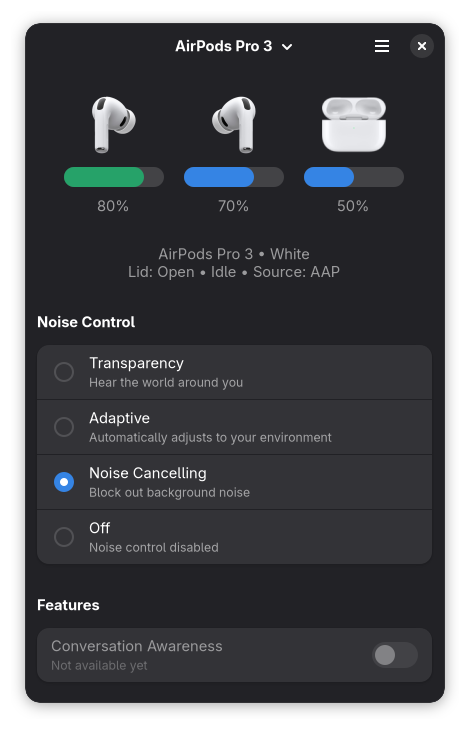
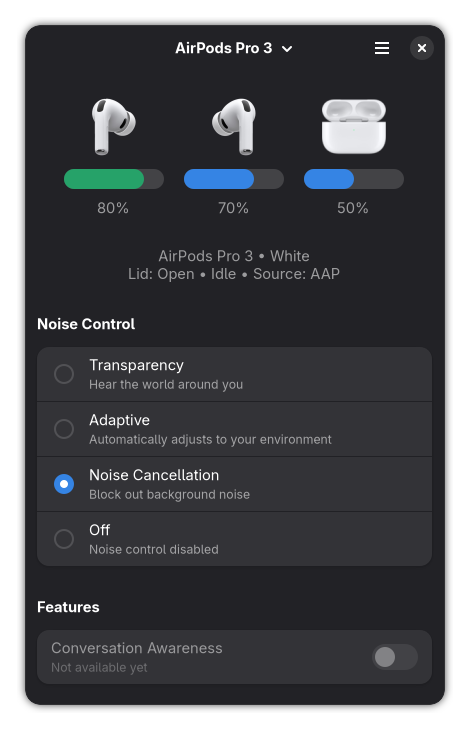
refactor: call the mode Noise Cancellation, as Apple does
The window, the tray and the docs called mode 0x02 Noise Cancelling,
where Apple says Noise Cancellation. The label, the NoiseMode variant,
the noise-mode action target and the radio's widget ID
(noise-noise-cancellation) follow, and the tests, the fake and the docs
with them. A rename only. The README's screenshot is retaken in a fake
world to show the new label.

diff --git a/src/aap/noise.rs b/src/aap/noise.rs
@@ -50,7 +50,7 @@ const CMD_SETTINGS_CHANGED: u8 = 0x4B;
 #[derive(Debug, Clone, Copy, PartialEq, Eq)]
 pub enum NoiseMode {
     Off,
-    NoiseCancelling,
+    NoiseCancellation,
     Transparency,
     Adaptive,
 }
@@ -61,7 +61,7 @@ impl NoiseMode {
     pub const ALL: [NoiseMode; 4] = [
         Self::Transparency,
         Self::Adaptive,
-        Self::NoiseCancelling,
+        Self::NoiseCancellation,
         Self::Off,
     ];
 
@@ -69,7 +69,7 @@ impl NoiseMode {
     pub fn from_byte(value: u8) -> Option<Self> {
         match value {
             0x01 => Some(Self::Off),
-            0x02 => Some(Self::NoiseCancelling),
+            0x02 => Some(Self::NoiseCancellation),
             0x03 => Some(Self::Transparency),
             0x04 => Some(Self::Adaptive),
             _ => None,
@@ -79,7 +79,7 @@ impl NoiseMode {
     pub fn as_byte(self) -> u8 {
         match self {
             Self::Off => 0x01,
-            Self::NoiseCancelling => 0x02,
+            Self::NoiseCancellation => 0x02,
             Self::Transparency => 0x03,
             Self::Adaptive => 0x04,
         }
@@ -88,7 +88,7 @@ impl NoiseMode {
     pub fn label(self) -> &'static str {
         match self {
             Self::Off => "Off",
-            Self::NoiseCancelling => "Noise Cancelling",
+            Self::NoiseCancellation => "Noise Cancellation",
             Self::Transparency => "Transparency",
             Self::Adaptive => "Adaptive",
         }
@@ -98,7 +98,7 @@ impl NoiseMode {
     pub fn description(self) -> &'static str {
         match self {
             Self::Off => "Noise control disabled",
-            Self::NoiseCancelling => "Block out background noise",
+            Self::NoiseCancellation => "Block out background noise",
             Self::Transparency => "Hear the world around you",
             Self::Adaptive => "Automatically adjusts to your environment",
         }
@@ -122,7 +122,7 @@ pub const STALE_REPORT_WINDOW: Duration = Duration::from_secs(2);
 /// A command's mode is taken at once: the device's answer cannot confirm it -
 /// see the module docs. Its reports are taken as they come, the startup dump
 /// and a mode changed from a phone among them, with one exception. After Off
-/// was set from Noise Cancelling, a pair reported Noise Cancelling 0.33 s
+/// was set from Noise Cancellation, a pair reported Noise Cancellation 0.33 s
 /// later and Off only at 1.4 s, and taken as it came, that report put the
 /// previous mode back on show for a second (#113). So a report of the mode a
 /// command replaced is held off until the mode set is reported, or
@@ -340,7 +340,7 @@ mod tests {
         let hex = |mode| crate::hex(&set_packet(mode));
         assert_eq!(hex(NoiseMode::Off), "04 00 04 00 09 00 0d 01 00 00 00");
         assert_eq!(
-            hex(NoiseMode::NoiseCancelling),
+            hex(NoiseMode::NoiseCancellation),
             "04 00 04 00 09 00 0d 02 00 00 00"
         );
         assert_eq!(
@@ -488,17 +488,17 @@ mod tests {
         Duration::from_millis(ms)
     }
 
-    /// The #71 capture: Off from Noise Cancelling, the old mode reported at
+    /// The #71 capture: Off from Noise Cancellation, the old mode reported at
     /// +0.33 s and Off at +1.4 s. Off stays on show throughout, and from the
     /// report of Off on, any report counts.
     #[test]
     fn a_report_of_the_replaced_mode_is_held_until_the_mode_set_is_reported() {
         let start = Instant::now();
-        let mut state = reported(NoiseMode::NoiseCancelling, start);
+        let mut state = reported(NoiseMode::NoiseCancellation, start);
         let sent = start + ms(1000);
         assert!(state.set(NoiseMode::Off, sent));
         assert_eq!(
-            state.report(NoiseMode::NoiseCancelling, sent + ms(330)),
+            state.report(NoiseMode::NoiseCancellation, sent + ms(330)),
             Report::Stale
         );
         assert_eq!(state.mode(), Some(NoiseMode::Off));
@@ -509,10 +509,10 @@ mod tests {
 
         // Changed from a phone, straight after.
         assert_eq!(
-            state.report(NoiseMode::NoiseCancelling, sent + ms(1500)),
+            state.report(NoiseMode::NoiseCancellation, sent + ms(1500)),
             Report::Changed
         );
-        assert_eq!(state.mode(), Some(NoiseMode::NoiseCancelling));
+        assert_eq!(state.mode(), Some(NoiseMode::NoiseCancellation));
     }
 
     /// With no report of the mode set, the hold lasts the window and no
@@ -536,14 +536,14 @@ mod tests {
     #[test]
     fn another_mode_is_taken_at_once_and_ends_the_hold() {
         let start = Instant::now();
-        let mut state = reported(NoiseMode::NoiseCancelling, start);
+        let mut state = reported(NoiseMode::NoiseCancellation, start);
         state.set(NoiseMode::Off, start);
         assert_eq!(
             state.report(NoiseMode::Transparency, start + ms(100)),
             Report::Changed
         );
         assert_eq!(
-            state.report(NoiseMode::NoiseCancelling, start + ms(200)),
+            state.report(NoiseMode::NoiseCancellation, start + ms(200)),
             Report::Changed
         );
     }
@@ -553,18 +553,18 @@ mod tests {
     #[test]
     fn the_hold_follows_the_last_command() {
         let start = Instant::now();
-        let mut state = reported(NoiseMode::NoiseCancelling, start);
+        let mut state = reported(NoiseMode::NoiseCancellation, start);
         state.set(NoiseMode::Off, start);
         assert!(!state.set(NoiseMode::Off, start + ms(1500)));
         assert_eq!(
-            state.report(NoiseMode::NoiseCancelling, start + STALE_REPORT_WINDOW),
+            state.report(NoiseMode::NoiseCancellation, start + STALE_REPORT_WINDOW),
             Report::Changed,
             "held from the first Off"
         );
 
         state.set(NoiseMode::Transparency, start + ms(3000));
         assert_eq!(
-            state.report(NoiseMode::NoiseCancelling, start + ms(3100)),
+            state.report(NoiseMode::NoiseCancellation, start + ms(3100)),
             Report::Stale
         );
         state.set(NoiseMode::Adaptive, start + ms(3200));

diff --git a/tests/pipeline.rs b/tests/pipeline.rs
@@ -756,7 +756,7 @@ async fn off_is_allowed_first_and_no_other_mode_is() {
     app.until("the mode from the startup dump", |s| {
         s.states
             .get(&PAIR)
-            .is_some_and(|state| state.noise_mode == Some(NoiseMode::NoiseCancelling))
+            .is_some_and(|state| state.noise_mode == Some(NoiseMode::NoiseCancellation))
     })
     .await;
 
@@ -764,7 +764,7 @@ async fn off_is_allowed_first_and_no_other_mode_is() {
         NoiseMode::Transparency,
         NoiseMode::Adaptive,
         NoiseMode::Off,
-        NoiseMode::NoiseCancelling,
+        NoiseMode::NoiseCancellation,
     ];
     for mode in modes {
         app.coordinator
@@ -794,22 +794,22 @@ async fn off_is_allowed_first_and_no_other_mode_is() {
         set_packet(NoiseMode::Adaptive),
         allow_off_packet(true),
         set_packet(NoiseMode::Off),
-        set_packet(NoiseMode::NoiseCancelling),
+        set_packet(NoiseMode::NoiseCancellation),
     ]
     .map(|packet| packet.to_vec());
     assert_eq!(settings, expected);
 }
 
 /// After Off, a report of the mode it replaced does not bring that mode back:
-/// in the #71 capture the pair reported Noise Cancelling 0.33 s after Off
+/// in the #71 capture the pair reported Noise Cancellation 0.33 s after Off
 /// was set from it, and Off itself only at 1.4 s, and the window showed Noise
-/// Cancelling for the second in between (#113). The fake pair does the same.
+/// Cancellation for the second in between (#113). The fake pair does the same.
 ///
 /// Every snapshot from the command on is watched, until a battery change made
 /// once the echo is out has arrived: it comes over the same connection, after
 /// the stale report and the echo, so by then both have been read. The stale
 /// report comes well inside the 2 s the app holds it off for, and the pair
-/// reports Noise Cancelling for a whole second before the echo: a snapshot
+/// reports Noise Cancellation for a whole second before the echo: a snapshot
 /// showing it would be seen.
 #[tokio::test(flavor = "multi_thread", worker_threads = 2)]
 async fn a_stale_report_after_off_does_not_bring_the_old_mode_back() {
@@ -822,7 +822,7 @@ async fn a_stale_report_after_off_does_not_bring_the_old_mode_back() {
     app.until("the mode from the startup dump", |s| {
         s.states
             .get(&PAIR)
-            .is_some_and(|state| state.noise_mode == Some(NoiseMode::NoiseCancelling))
+            .is_some_and(|state| state.noise_mode == Some(NoiseMode::NoiseCancellation))
     })
     .await;
     fixture
@@ -888,7 +888,7 @@ async fn a_stale_report_after_off_does_not_bring_the_old_mode_back() {
         .unwrap();
     assert_eq!(
         shown,
-        [Some(NoiseMode::NoiseCancelling), Some(NoiseMode::Off)],
+        [Some(NoiseMode::NoiseCancellation), Some(NoiseMode::Off)],
         "Off, and nothing after it"
     );
 }
@@ -932,7 +932,7 @@ async fn two_quick_switches(spawned: bool) {
     app.until("the mode from the startup dump", |s| {
         s.states
             .get(&PAIR)
-            .is_some_and(|state| state.noise_mode == Some(NoiseMode::NoiseCancelling))
+            .is_some_and(|state| state.noise_mode == Some(NoiseMode::NoiseCancellation))
     })
     .await;
 

diff --git a/src/harness/pods.rs b/src/harness/pods.rs
@@ -148,7 +148,7 @@ pub struct Quirks {
     pub echo_delay: Duration,
     /// Report the mode an Off replaced, this long after the change - before
     /// the echo, when one comes sooner than that. In the #71 capture, switched
-    /// from Noise Cancelling to Off, the pair reported `0D 02` 0.33 s later and
+    /// from Noise Cancellation to Off, the pair reported `0D 02` 0.33 s later and
     /// the Off itself, `0D 01`, at 1.4 s; the other three modes came with no
     /// such report. Seen once, so `None` by default. It brings no echo of its
     /// own: [`Quirks::echo_every`] and [`Quirks::echo_delay`] say when that
@@ -286,7 +286,7 @@ impl Pods {
     /// It starts as if just taken out of the box: both pods in the open case,
     /// left at 80%, right at 70% and the case at 50% - different, so a
     /// left/right mix-up shows - nothing charging, white, left primary, noise
-    /// cancelling, Off not allowed, and connected to nothing.
+    /// cancellation, Off not allowed, and connected to nothing.
     pub fn new(product_id: u16, mac: Address) -> Self {
         Self::with_keys(product_id, mac, Keys::generate())
     }
@@ -309,7 +309,7 @@ impl Pods {
             case_charging: false,
             lid_open: true,
             primary: PodSide::Left,
-            noise_mode: NoiseMode::NoiseCancelling,
+            noise_mode: NoiseMode::NoiseCancellation,
             allow_off: false,
             keys,
             connected: false,
@@ -1069,7 +1069,7 @@ mod tests {
         let mut pods = subscribed();
         pods.receive(&noise::set_packet(NoiseMode::Off), ms(10));
         assert!(pods.poll(ms(10)).is_empty());
-        assert_eq!(pods.noise_mode(), NoiseMode::NoiseCancelling);
+        assert_eq!(pods.noise_mode(), NoiseMode::NoiseCancellation);
 
         pods.receive(&noise::allow_off_packet(true), ms(20));
         pods.receive(&noise::set_packet(NoiseMode::Off), ms(20));
@@ -1098,7 +1098,7 @@ mod tests {
         let modes = [
             NoiseMode::Transparency,
             NoiseMode::Adaptive,
-            NoiseMode::NoiseCancelling,
+            NoiseMode::NoiseCancellation,
             NoiseMode::Transparency,
         ];
         for (i, mode) in modes.into_iter().enumerate() {
@@ -1125,8 +1125,8 @@ mod tests {
         }
     }
 
-    /// Off from Noise Cancelling as the #71 capture has it - a report of
-    /// Noise Cancelling at +0.33 s and the echo of Off at +1.4 s - with the
+    /// Off from Noise Cancellation as the #71 capture has it - a report of
+    /// Noise Cancellation at +0.33 s and the echo of Off at +1.4 s - with the
     /// fake's default 0x4B at once on top. No other mode brings such a
     /// report, nor does Off from Off.
     #[test]
@@ -1144,7 +1144,7 @@ mod tests {
         assert_eq!(pods.next_due(), Some(ms(1330)));
         assert_eq!(
             sent(&pods.poll(ms(1330))),
-            [noise::set_packet(NoiseMode::NoiseCancelling).to_vec()]
+            [noise::set_packet(NoiseMode::NoiseCancellation).to_vec()]
         );
         assert_eq!(pods.noise_mode(), NoiseMode::Off, "the report is stale");
         assert_eq!(

diff --git a/src/podstate.rs b/src/podstate.rs
@@ -1908,7 +1908,7 @@ mod tests {
     /// where `set_noise_control` records it, since sending needs a socket.
     #[tokio::test]
     async fn a_stale_report_does_not_undo_a_command() {
-        use aap::NoiseMode::{NoiseCancelling, Off};
+        use aap::NoiseMode::{NoiseCancellation, Off};
 
         let mut inner = inner_with(vec![]);
         inner.links.insert(AA, link(Some(aap_state(80))));
@@ -1917,7 +1917,7 @@ mod tests {
         let mode =
             |coordinator: &Coordinator| coordinator.subscribe().borrow().states[&AA].noise_mode;
         coordinator
-            .handle_noise_mode(NoiseCancelling, AA, &client)
+            .handle_noise_mode(NoiseCancellation, AA, &client)
             .await;
         {
             let mut inner = coordinator.inner.write().await;
@@ -1928,16 +1928,16 @@ mod tests {
         let _ = rx.borrow_and_update();
 
         coordinator
-            .handle_noise_mode(NoiseCancelling, AA, &client)
+            .handle_noise_mode(NoiseCancellation, AA, &client)
             .await;
         assert_eq!(mode(&coordinator), Some(Off));
         assert!(!rx.has_changed().unwrap(), "nothing to broadcast");
 
         coordinator.handle_noise_mode(Off, AA, &client).await;
         coordinator
-            .handle_noise_mode(NoiseCancelling, AA, &client)
+            .handle_noise_mode(NoiseCancellation, AA, &client)
             .await;
-        assert_eq!(mode(&coordinator), Some(NoiseCancelling));
+        assert_eq!(mode(&coordinator), Some(NoiseCancellation));
     }
 
     /// A read loop outliving its link reports the old session's mode, which

diff --git a/src/ui/automation.rs b/src/ui/automation.rs
@@ -64,7 +64,7 @@
 //! | `status` | the status text under the battery display: model and color, then the rest |
 //! | `last-seen` | how old a BLE reading is; hidden for AAP |
 //! | `noise-control` | the Noise Control group, insensitive unless the device is on AAP |
-//! | `noise-off`, `noise-noise-cancelling`, `noise-transparency`, `noise-adaptive` | its radios |
+//! | `noise-off`, `noise-noise-cancellation`, `noise-transparency`, `noise-adaptive` | its radios |
 //! | `conversation-awareness` | the Features switch, always insensitive |
 //! | `preferences` | the Preferences dialog, while open |
 //! | `auto-connect`, `battery-notifications` | its switches, always insensitive |

diff --git a/src/ui/control.rs b/src/ui/control.rs
@@ -322,7 +322,7 @@ fn create_empty_state() -> adw::StatusPage {
 fn noise_target(mode: NoiseMode) -> &'static str {
     match mode {
         NoiseMode::Off => "off",
-        NoiseMode::NoiseCancelling => "noise-cancelling",
+        NoiseMode::NoiseCancellation => "noise-cancellation",
         NoiseMode::Transparency => "transparency",
         NoiseMode::Adaptive => "adaptive",
     }

diff --git a/docs/aap-noise-control.md b/docs/aap-noise-control.md
@@ -97,13 +97,13 @@ What answers a mode change depends on the model, and nothing answers it reliably
 | Mode | Sent | `0x0D` echo | `0x4B` |
 |---|---|---|---|
 | Adaptive | `0D 04` | +1.1 s | none |
-| Noise Cancelling | `0D 02` | +1.0 s | none |
+| Noise Cancellation | `0D 02` | +1.0 s | none |
 | Off | `34 01` then `0D 01`, same ms | stale `0D 02` at +0.33 s, then `0D 01` at +1.4 s | none |
 | Transparency | `0D 03` | +1.0 s | none |
 
 **Integration note:** Treat noise control commands as fire-and-forget. Update local state optimistically after sending — do not wait for a `0x0D` confirmation packet. `Coordinator::set_noise_control` does exactly that: it records the mode as soon as the packet is away and broadcasts, and the command is done - its caller, waiting on `Coordinator::command`, hears so then. A later `0x0D` report merely confirms the mode - unless it is a stale one, below.
 
-**Stale reports.** A `0x0D` report can carry the mode a change replaced. Switched from Noise Cancelling to Off, a pair reported `0D 02` 0.33 s later and `0D 01` only at 1.4 s (#71); taken as it came, the first put Noise Cancelling back on show for a second (#113). So a report of the replaced mode is held off until the mode set is reported, or 2 s pass - `aap::noise::ModeState`. After that any report wins again, since the mode may have been changed on another device.
+**Stale reports.** A `0x0D` report can carry the mode a change replaced. Switched from Noise Cancellation to Off, a pair reported `0D 02` 0.33 s later and `0D 01` only at 1.4 s (#71); taken as it came, the first put Noise Cancellation back on show for a second (#113). So a report of the replaced mode is held off until the mode set is reported, or 2 s pass - `aap::noise::ModeState`. After that any report wins again, since the mode may have been changed on another device.
 
 A report held off is dropped, not deferred to the end of the 2 s. In run 1 below, Transparency and Adaptive each took effect and were followed by a report of the old mode, `0x02`, with no echo of the new one after it: applied at expiry, that report would show the wrong mode just the same. If a dropped report was right after all, the next report corrects the mode.
 

diff --git a/.claude/skills/fake-world/SKILL.md b/.claude/skills/fake-world/SKILL.md
@@ -44,7 +44,7 @@ where the logs are. Only one world runs at a time.
 | `empty` | nothing; add pairs with `AddPods` |
 
 Each new pair starts with both pods in the open case: left 80%, right 70%, case 50%,
-Noise Cancelling. A scenario's pairs have their keys saved in the app's keystore before
+Noise Cancellation. A scenario's pairs have their keys saved in the app's keystore before
 it starts, as though each had connected once before. A pair added later with `AddPods`
 has no key until it connects, so until then the app shows nothing of it.
 
